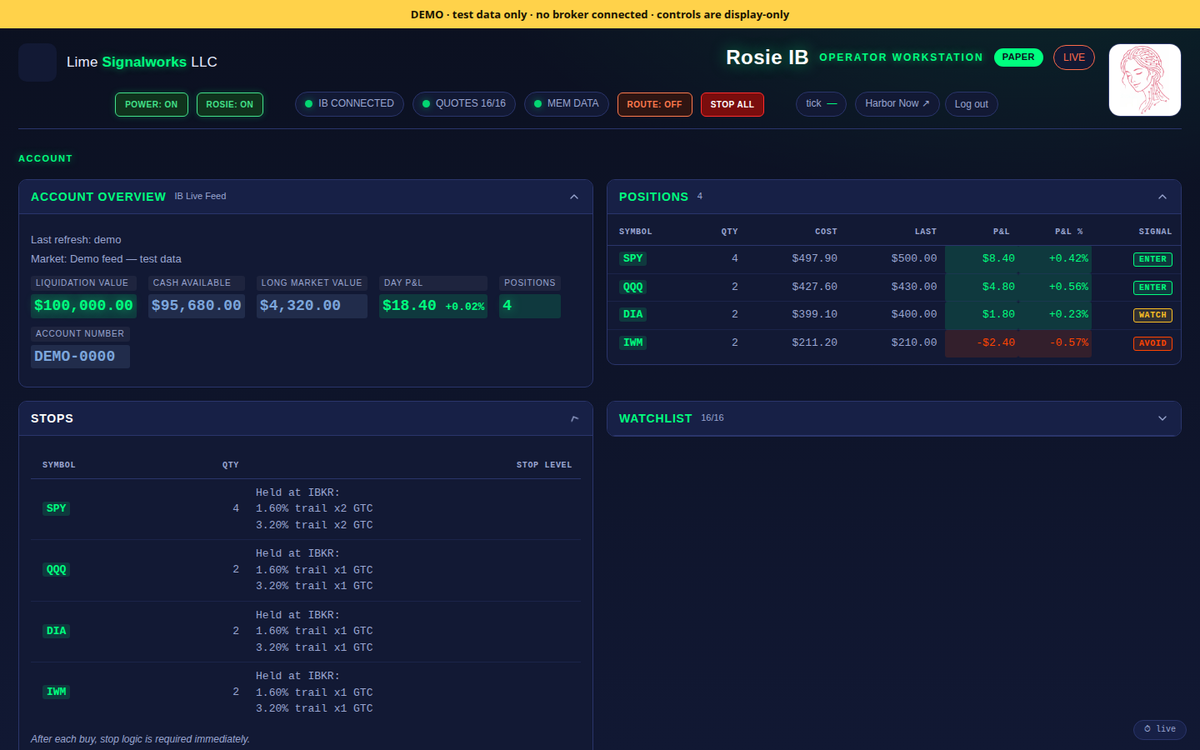
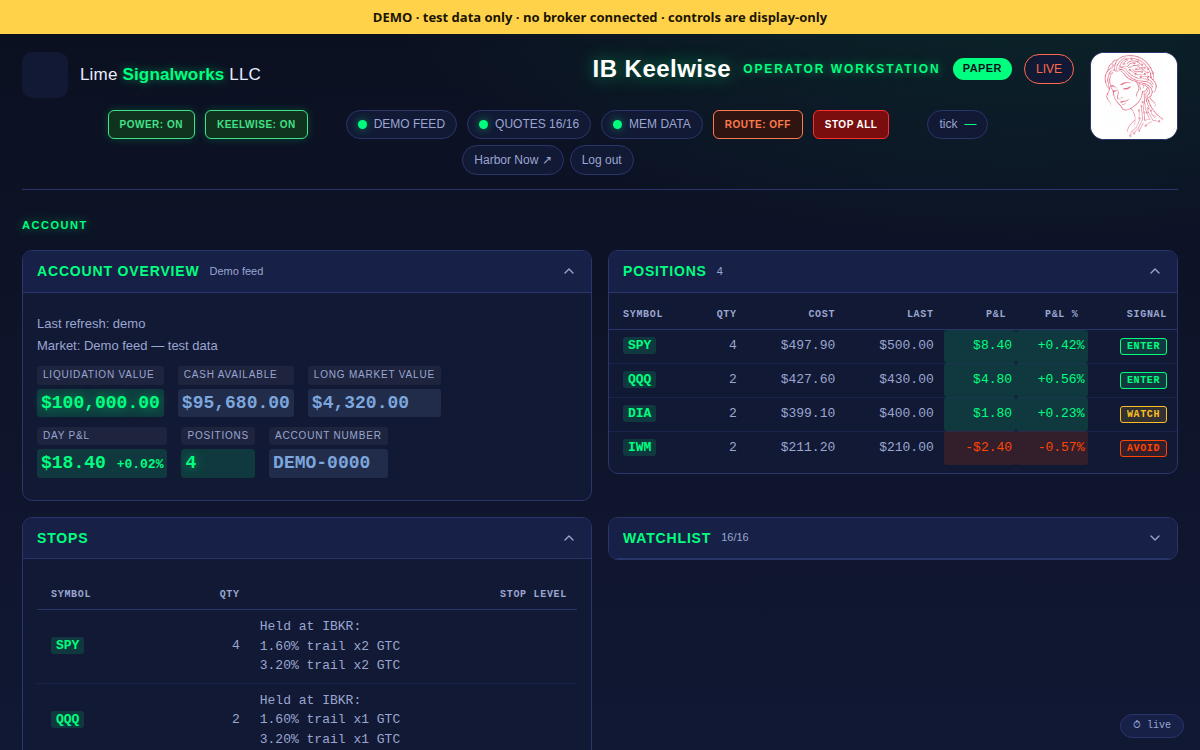
Oct 7 fixes: allow indexing, report wording, Price header, IB Keelwise in demo and preview, drop not-ready text, YouTube link (#9)

diff --git a/rosie-demo/index.html b/rosie-demo/index.html
@@ -3,7 +3,7 @@
 <head>
   <meta charset="UTF-8"/>
   <meta name="viewport" content="width=device-width,initial-scale=1.0"/>
-  <meta name="robots" content="noindex"><title>Demo — Rosie IB — Operator Workstation</title>
+  <meta name="robots" content="noindex"><title>Demo — IB Keelwise — Operator Workstation</title>
   <link rel="preconnect" href="https://fonts.googleapis.com"/>
   <link rel="preconnect" href="https://fonts.gstatic.com" crossorigin/>
   <link href="https://api.fontshare.com/v2/css?f[]=general-sans@400,500,600,700&display=swap" rel="stylesheet"/>
@@ -452,14 +452,14 @@ tr:hover td { background: rgba(0,255,127,0.06); }
            aria-label="Lime Signalworks home (opens in a new tab)">Lime&nbsp;<b>Signalworks</b> LLC</a>
       </div>
       <div class="brand">
-        <h1>Rosie IB</h1>
+        <h1>IB Keelwise</h1>
         <span class="sub">Operator Workstation</span>
-        <span class="trading-env-badge" style="display:inline-block;padding:3px 10px;border-radius:999px;font-size:11px;background:var(--lime, #9ad14a);color:#0a1320;font-weight:700;letter-spacing:.04em;" title="IB port 7497">PAPER</span> <form class="chip-form" method="post" action="/select-lane" style="display:inline" onsubmit="var v=prompt('Restart Rosie on the LIVE account? Real money. TWS must already be logged in to live. Type LIVE to continue.'); if(v!=='LIVE'){return false;} this.confirm.value=v; return true;"><input type="hidden" name="lane" value="LIVE"><input type="hidden" name="confirm" value=""><button type="submit" class="status-chip link" id="lane-btn" style="color:#ff6b4a;border-color:#ff6b4a;" title="Restart Rosie on the live account (asks you to type LIVE)">LIVE</button></form>
-        <img class="keeper-portrait-slot" id="rosie-portrait" src="static/rosie_portrait.png" alt="Rosie" title="Rosie" width="40" height="40">
+        <span class="trading-env-badge" style="display:inline-block;padding:3px 10px;border-radius:999px;font-size:11px;background:var(--lime, #9ad14a);color:#0a1320;font-weight:700;letter-spacing:.04em;" title="IB port 7497">PAPER</span> <form class="chip-form" method="post" action="/select-lane" style="display:inline" onsubmit="var v=prompt('Restart Keelwise on the LIVE account? Real money. TWS must already be logged in to live. Type LIVE to continue.'); if(v!=='LIVE'){return false;} this.confirm.value=v; return true;"><input type="hidden" name="lane" value="LIVE"><input type="hidden" name="confirm" value=""><button type="submit" class="status-chip link" id="lane-btn" style="color:#ff6b4a;border-color:#ff6b4a;" title="Restart Keelwise on the live account (asks you to type LIVE)">LIVE</button></form>
+        <img class="keeper-portrait-slot" id="rosie-portrait" src="static/rosie_portrait.png" alt="Keelwise" title="Keelwise" width="40" height="40">
       </div>
       <div class="op-cluster"><div class="op-grid">
         <form class="op-form" method="post" action="/power-off"><button type="submit" class="op-btn state-on">POWER: ON</button></form>
-        <form class="op-form" method="post" action="/rosie-off"><button type="submit" class="op-btn state-on">ROSIE: ON</button></form>
+        <form class="op-form" method="post" action="/rosie-off"><button type="submit" class="op-btn state-on">KEELWISE: ON</button></form>
         <span class="op-spacer"></span>
         <span class="status-chip" title="Socket open to ?:7497"><span class="dot live"></span>DEMO FEED</span>
         <span class="status-chip" title="16 of 16 watchlist symbols returning real prices"><span class="dot live"></span>QUOTES 16/16</span>
@@ -539,16 +539,16 @@ tr:hover td { background: rgba(0,255,127,0.06); }
       font-family:var(--mono);"/>
   </label>
   <button type="submit" class="big-btn arm-btn" style="margin-top:4px;">PROPOSE</button>
-</form><p class="note-body" style="margin-top:10px;color:var(--muted);font-style:italic;font-size:12px;">Rosie proposes — Noal decides. Review before arming.</p></div></div></details>
+</form><p class="note-body" style="margin-top:10px;color:var(--muted);font-style:italic;font-size:12px;">Keelwise proposes — you decide. Review before arming.</p></div></div></details>
       <details class="panel" id="panel-propose" open><summary class="panel-head"><span class="panel-head-main"><h2>Propose</h2></span><svg class="chev" width="16" height="16" viewBox="0 0 24 24" fill="none" stroke="currentColor" stroke-width="2" stroke-linecap="round" stroke-linejoin="round"><polyline points="6 9 12 15 18 9"/></svg></summary><div class="panel-body"><div class="panel-inner"><p class="note-body" style="color:var(--muted);">No active proposal. Run classify and rank first.</p></div></div></details>
 
       <div class="group-label">System</div>
       <details class="panel" id="panel-trade-record" open><summary class="panel-head"><span class="panel-head-main"><h2>Trade Record</h2></span><svg class="chev" width="16" height="16" viewBox="0 0 24 24" fill="none" stroke="currentColor" stroke-width="2" stroke-linecap="round" stroke-linejoin="round"><polyline points="6 9 12 15 18 9"/></svg></summary><div class="panel-body"><div class="panel-inner"><div style="display:flex;flex-wrap:wrap;gap:20px;padding:12px 0;border-bottom:1px solid var(--border);margin-bottom:14px;align-items:center;"><div style="display:flex;flex-direction:column;gap:2px;min-width:96px;"><span style="font-size:10px;color:var(--muted);text-transform:uppercase;letter-spacing:.04em;">Signals logged</span><span style="font-family:var(--mono);font-size:15px;">0</span></div><div style="display:flex;flex-direction:column;gap:2px;min-width:96px;"><span style="font-size:10px;color:var(--muted);text-transform:uppercase;letter-spacing:.04em;">Closed trades</span><span style="font-family:var(--mono);font-size:15px;">0</span></div><div style="display:flex;flex-direction:column;gap:2px;min-width:96px;"><span style="font-size:10px;color:var(--muted);text-transform:uppercase;letter-spacing:.04em;">Win rate</span><span style="font-family:var(--mono);font-size:15px;">---</span></div><div style="display:flex;flex-direction:column;gap:2px;min-width:96px;"><span style="font-size:10px;color:var(--muted);text-transform:uppercase;letter-spacing:.04em;">Profit factor</span><span style="font-family:var(--mono);font-size:15px;">---</span></div><div style="display:flex;flex-direction:column;gap:2px;min-width:96px;"><span style="font-size:10px;color:var(--muted);text-transform:uppercase;letter-spacing:.04em;">Max drawdown</span><span style="font-family:var(--mono);font-size:15px;">---</span></div><div style="display:flex;flex-direction:column;gap:2px;min-width:96px;"><span style="font-size:10px;color:var(--muted);text-transform:uppercase;letter-spacing:.04em;">Rule compliance</span><span style="font-family:var(--mono);font-size:15px;">---</span></div><span style="font-size:11px;font-weight:700;padding:4px 10px;border-radius:10px;border:1px solid var(--bad);color:var(--bad);text-transform:uppercase;letter-spacing:.04em;white-space:nowrap;margin-left:auto;">Gate: HOLD</span></div><p class="note-body" style="margin:0 0 14px;color:var(--muted);font-style:italic;font-size:12px;">Every signal the rolling-average-crossover loop finds is logged here automatically -- no clicking required. Use the form below only to log something by hand.</p><div style="margin-bottom:16px;"><form method="post" action="/evidence-log" style="display:flex;flex-wrap:wrap;gap:10px;align-items:flex-end;"><label style="font-size:11px;color:var(--muted);">Instrument<select name="instrument" style="display:block;margin-top:4px;padding:8px;background:var(--surface2);border:1px solid var(--border);border-radius:6px;color:var(--text);font-family:var(--mono);"><option value="SPY">SPY</option><option value="QQQ">QQQ</option><option value="DIA">DIA</option><option value="IWM">IWM</option></select></label><label style="font-size:11px;color:var(--muted);">Signal<select name="signal_class" style="display:block;margin-top:4px;padding:8px;background:var(--surface2);border:1px solid var(--border);border-radius:6px;color:var(--text);font-family:var(--mono);"><option value="Enter">Enter</option><option value="Watch">Watch</option><option value="Avoid">Avoid</option></select></label><label style="font-size:11px;color:var(--muted);">Entry<input type="number" step="0.01" name="entry_price" style="display:block;width:90px;margin-top:4px;padding:8px;background:var(--surface2);border:1px solid var(--border);border-radius:6px;color:var(--text);font-family:var(--mono);"/></label><label style="font-size:11px;color:var(--muted);flex:1;min-width:160px;">Notes<input type="text" name="operator_notes" style="display:block;width:100%;margin-top:4px;padding:8px;background:var(--surface2);border:1px solid var(--border);border-radius:6px;color:var(--text);font-family:var(--mono);"/></label><button type="submit" class="big-btn arm-btn">LOG SIGNAL</button></form></div><div style="display:flex;flex-direction:column;gap:8px;"><p class="note-body" style="color:var(--muted);">No evidence logged yet -- it appears here the moment the loop finds its first signal.</p></div></div></div></details>
-      <details class="panel" id="panel-journal" open><summary class="panel-head"><span class="panel-head-main"><h2>Journal</h2></span><svg class="chev" width="16" height="16" viewBox="0 0 24 24" fill="none" stroke="currentColor" stroke-width="2" stroke-linecap="round" stroke-linejoin="round"><polyline points="6 9 12 15 18 9"/></svg></summary><div class="panel-body"><div class="panel-inner"><div style="display:flex;flex-direction:column;gap:8px;"><div class="tl-item" style="align-items:center;"><span class="tl-time">demo 09:58:12</span><span class="sym">TLT</span><span class="muted-val">PROPOSE BUY 1</span><span class="bad-val">REFUSED</span><span class="tl-msg">Refused: quote stale — entries need a fresh ask</span></div><div class="tl-item" style="align-items:center;"><span class="tl-time">demo 10:08:05</span><span class="sym">QQQ</span><span class="muted-val">BUY 2 (protected)</span><span class="bad-val">FILLED</span><span class="tl-msg">Operator approved; two broker-held trails placed</span></div><div class="tl-item" style="align-items:center;"><span class="tl-time">demo 10:09:38</span><span class="sym">DIA</span><span class="muted-val">BUY 2 (protected)</span><span class="bad-val">FILLED</span><span class="tl-msg">Operator approved; two broker-held trails placed</span></div><div class="tl-item" style="align-items:center;"><span class="tl-time">demo 10:10:47</span><span class="sym">IWM</span><span class="muted-val">BUY 2 (protected)</span><span class="bad-val">FILLED</span><span class="tl-msg">Operator approved Rosie proposal; two broker-held trails placed</span></div></div></div></div></details>
+      <details class="panel" id="panel-journal" open><summary class="panel-head"><span class="panel-head-main"><h2>Journal</h2></span><svg class="chev" width="16" height="16" viewBox="0 0 24 24" fill="none" stroke="currentColor" stroke-width="2" stroke-linecap="round" stroke-linejoin="round"><polyline points="6 9 12 15 18 9"/></svg></summary><div class="panel-body"><div class="panel-inner"><div style="display:flex;flex-direction:column;gap:8px;"><div class="tl-item" style="align-items:center;"><span class="tl-time">demo 09:58:12</span><span class="sym">TLT</span><span class="muted-val">PROPOSE BUY 1</span><span class="bad-val">REFUSED</span><span class="tl-msg">Refused: quote stale — entries need a fresh ask</span></div><div class="tl-item" style="align-items:center;"><span class="tl-time">demo 10:08:05</span><span class="sym">QQQ</span><span class="muted-val">BUY 2 (protected)</span><span class="bad-val">FILLED</span><span class="tl-msg">Operator approved; two broker-held trails placed</span></div><div class="tl-item" style="align-items:center;"><span class="tl-time">demo 10:09:38</span><span class="sym">DIA</span><span class="muted-val">BUY 2 (protected)</span><span class="bad-val">FILLED</span><span class="tl-msg">Operator approved; two broker-held trails placed</span></div><div class="tl-item" style="align-items:center;"><span class="tl-time">demo 10:10:47</span><span class="sym">IWM</span><span class="muted-val">BUY 2 (protected)</span><span class="bad-val">FILLED</span><span class="tl-msg">Operator approved Keelwise proposal; two broker-held trails placed</span></div></div></div></div></details>
       <details class="panel" id="panel-operator" open><summary class="panel-head"><span class="panel-head-main"><h2>Operator</h2></span><svg class="chev" width="16" height="16" viewBox="0 0 24 24" fill="none" stroke="currentColor" stroke-width="2" stroke-linecap="round" stroke-linejoin="round"><polyline points="6 9 12 15 18 9"/></svg></summary><div class="panel-body"><div class="panel-inner">
       <div class="note-box">
         <div class="note-title">Operator Posture</div>
-        <div class="note-body">Only SPY · QQQ · DIA · IWM are gated. Confirm Power → Rosie → Arm before routing.</div>
+        <div class="note-body">Confirm Power → Keelwise → Arm before routing.</div>
       </div>
       <div class="note-box">
         <div class="note-title">Alert Mode</div>
@@ -579,7 +579,7 @@ tr:hover td { background: rgba(0,255,127,0.06); }
         </div>
       </div>
     </div></div></details>
-      <details class="panel" id="panel-diagnostics" open><summary class="panel-head"><span class="panel-head-main"><h2>Diagnostics</h2></span><svg class="chev" width="16" height="16" viewBox="0 0 24 24" fill="none" stroke="currentColor" stroke-width="2" stroke-linecap="round" stroke-linejoin="round"><polyline points="6 9 12 15 18 9"/></svg></summary><div class="panel-body"><div class="panel-inner"><div class="diag-row"><div class="diag-chip"><span class="diag-k">ROUTE</span><span class="diag-v bad">DISARM</span></div><div class="diag-chip"><span class="diag-k">POWER</span><span class="diag-v good">ON</span></div><div class="diag-chip"><span class="diag-k">ROSIE</span><span class="diag-v good">ON</span></div><div class="diag-chip"><span class="diag-k">HB</span><span class="diag-v plain">—</span></div><div class="diag-chip"><span class="diag-k">CYCLE</span><span class="diag-v plain">—</span></div><div class="diag-chip"><span class="diag-k">DEMO</span><span class="diag-v good">OK</span></div><div class="diag-chip" style="flex:1;min-width:200px;"><span class="diag-k">NOTE</span><span class="diag-v plain" style="font-size:11px;">—</span></div></div></div></div></details>
+      <details class="panel" id="panel-diagnostics" open><summary class="panel-head"><span class="panel-head-main"><h2>Diagnostics</h2></span><svg class="chev" width="16" height="16" viewBox="0 0 24 24" fill="none" stroke="currentColor" stroke-width="2" stroke-linecap="round" stroke-linejoin="round"><polyline points="6 9 12 15 18 9"/></svg></summary><div class="panel-body"><div class="panel-inner"><div class="diag-row"><div class="diag-chip"><span class="diag-k">ROUTE</span><span class="diag-v bad">DISARM</span></div><div class="diag-chip"><span class="diag-k">POWER</span><span class="diag-v good">ON</span></div><div class="diag-chip"><span class="diag-k">KEELWISE</span><span class="diag-v good">ON</span></div><div class="diag-chip"><span class="diag-k">HB</span><span class="diag-v plain">—</span></div><div class="diag-chip"><span class="diag-k">CYCLE</span><span class="diag-v plain">—</span></div><div class="diag-chip"><span class="diag-k">DEMO</span><span class="diag-v good">OK</span></div><div class="diag-chip" style="flex:1;min-width:200px;"><span class="diag-k">NOTE</span><span class="diag-v plain" style="font-size:11px;">—</span></div></div></div></div></details>
     </div>
   </main>
 </div>
@@ -891,7 +891,7 @@ document.addEventListener('click', function(e){
   if (e.target.closest('button, a')) { e.preventDefault(); demoNote(); }
 }, true);
 function demoNote(){ var b=document.getElementById('demo-banner'); if(!b) return;
-  b.textContent='DEMO · controls are display-only here · in Rosie, every action needs your login and approval';
+  b.textContent='DEMO · controls are display-only here · in Keelwise, every action needs your login and approval';
   b.style.background='#00ff7f'; setTimeout(function(){ b.textContent='DEMO · test data only · no broker connected · controls are display-only'; b.style.background='#ffd24a'; }, 2600); }
 </script></body>
 </html>

diff --git a/index.html b/index.html
@@ -10,7 +10,7 @@
       name="description"
       content="Keelwise is a loss-prevention-first trading assistant from Lime Signalworks. It connects to Interactive Brokers, proposes trades for your approval, and protects every approved buy with stops held at the broker."
     />
-    <meta name="robots" content="noindex, nofollow" />
+    <meta name="robots" content="index, follow" />
     <!-- Declares light as the default rendering scheme so a dark operating system does
          not paint the canvas or form controls dark before the stylesheet applies. The
          dark palette is reached only through the toggle, via the color-scheme property. -->
@@ -97,7 +97,7 @@
                  reachable, so a visitor learns that before spending a click on it. -->
             <div class="cta-block" id="demo">
               <a class="cta" href="https://limesignalworks.pplx.app/" target="_blank" rel="noopener noreferrer">Open the Keelwise demo<span class="ext" aria-hidden="true">&#8599;</span><span class="sr-only"> (opens in a new tab)</span></a>
-              <p class="cta-block__disclosure" data-demo-disclosure>Demonstration environment. Simulated data. No broker connection and no real orders. Not production-ready.</p>
+              <p class="cta-block__disclosure" data-demo-disclosure>Demonstration environment. Simulated data. No broker connection and no real orders.</p>
               <p class="cta-block__signin" data-demo-signin>Perplexity sign-in may be required.</p>
             </div>
 
@@ -178,9 +178,9 @@
                 width="1200"
                 height="750"
                 loading="lazy"
-                alt="Keelwise operator workstation, demo with test data: header controls, Account Overview, Positions with the Signal column, and broker-held Stops"
+                alt="IB Keelwise operator workstation, demo with test data: header controls, Account Overview, Positions with the Signal column, and broker-held Stops"
               />
-              <figcaption>The Keelwise dashboard, shown here with test data. <a href="/rosie-demo/">Open the interactive demo</a>.</figcaption>
+              <figcaption>The IB Keelwise dashboard, shown here with test data. <a href="/rosie-demo/">Open the interactive demo</a>.</figcaption>
             </figure>
           </div>
         </div>
@@ -193,9 +193,10 @@
             <p class="label rule-after">Section 02</p>
             <h2 id="market-report-title">Daily market situation report</h2>
             <p>
-              Each market day we publish a plain-language summary of conditions: index-level moves,
-              volatility, and a stated risk posture. Reports are published after the close and are
-              labelled with their as-of date.
+              Our market situation report is a plain-language summary of conditions: index-level
+              moves, volatility, and a stated risk posture. It is written after the close, dated, and
+              published on our Signals site; Keelwise reads the stated posture before proposing any
+              new buy. The table below shows the report format.
             </p>
           </div>
 
@@ -256,7 +257,7 @@
             </table>
           </div>
             <p class="panel__posture">Conditions read bearish. Stated posture: protect first.</p>
-            <p class="panel__note">This is a worked example of the report format, not current market data. The figures shown are the last completed report carried over from the reporting archive and are dated. Reports are published after the close, never in real time, and live market data may be newer than any published report.</p>
+            <p class="panel__note">This table shows the report format using figures from a past report; it is not current market data. Reports are written after the close and dated, never in real time.</p>
           </div>
         </div>
       </section>
@@ -468,7 +469,7 @@
               <thead>
                 <tr>
                   <th scope="col">Term</th>
-                  <th scope="col" class="num">Planned price</th>
+                  <th scope="col" class="num">Price</th>
                 </tr>
               </thead>
               <tbody>
@@ -483,7 +484,7 @@
               </tbody>
             </table>
           </div>
-              <p class="panel__note" data-pricing-status>Enrollment is arranged directly with us after your evaluation. There is no online checkout, and no payment can be taken on this site.</p>
+              <p class="panel__note" data-pricing-status>Enrollment is arranged directly with us, by phone or email, after your evaluation. Nothing is sold or charged on this site.</p>
             </div>
 
             <div class="stack">
@@ -571,14 +572,15 @@
               <p class="label">Just looking</p>
               <h3>Open the demo</h3>
               <p>
-                See the real dashboard with test data before you talk to anyone. A Perplexity
-                sign-in may be required to open it.
+                See the real dashboard with test data, or watch our short videos on YouTube. A
+                Perplexity sign-in may be required to open the demo.
               </p>
             </li>
           </ol>
           <p class="anchor-row">
             <a class="anchor-link" href="#contact">Call or email us</a>
             <a class="anchor-link" href="#demo">Open the demo</a>
+            <a class="anchor-link" href="https://www.youtube.com/@noelrini3882" target="_blank" rel="noopener noreferrer">Watch on YouTube<span class="sr-only"> (opens in a new tab)</span></a>
           </p>
         </div>
       </section>

diff --git a/src/template.html b/src/template.html
@@ -10,7 +10,7 @@
       name="description"
       content="Keelwise is a loss-prevention-first trading assistant from Lime Signalworks. It connects to Interactive Brokers, proposes trades for your approval, and protects every approved buy with stops held at the broker."
     />
-    <meta name="robots" content="noindex, nofollow" />
+    <meta name="robots" content="index, follow" />
     <!-- Declares light as the default rendering scheme so a dark operating system does
          not paint the canvas or form controls dark before the stylesheet applies. The
          dark palette is reached only through the toggle, via the color-scheme property. -->
@@ -172,9 +172,9 @@
                 width="1200"
                 height="750"
                 loading="lazy"
-                alt="Keelwise operator workstation, demo with test data: header controls, Account Overview, Positions with the Signal column, and broker-held Stops"
+                alt="IB Keelwise operator workstation, demo with test data: header controls, Account Overview, Positions with the Signal column, and broker-held Stops"
               />
-              <figcaption>The Keelwise dashboard, shown here with test data. <a href="/rosie-demo/">Open the interactive demo</a>.</figcaption>
+              <figcaption>The IB Keelwise dashboard, shown here with test data. <a href="/rosie-demo/">Open the interactive demo</a>.</figcaption>
             </figure>
           </div>
         </div>
@@ -187,9 +187,10 @@
             <p class="label rule-after">Section 02</p>
             <h2 id="market-report-title">Daily market situation report</h2>
             <p>
-              Each market day we publish a plain-language summary of conditions: index-level moves,
-              volatility, and a stated risk posture. Reports are published after the close and are
-              labelled with their as-of date.
+              Our market situation report is a plain-language summary of conditions: index-level
+              moves, volatility, and a stated risk posture. It is written after the close, dated, and
+              published on our Signals site; Keelwise reads the stated posture before proposing any
+              new buy. The table below shows the report format.
             </p>
           </div>
 
@@ -456,14 +457,15 @@
               <p class="label">Just looking</p>
               <h3>Open the demo</h3>
               <p>
-                See the real dashboard with test data before you talk to anyone. A Perplexity
-                sign-in may be required to open it.
+                See the real dashboard with test data, or watch our short videos on YouTube. A
+                Perplexity sign-in may be required to open the demo.
               </p>
             </li>
           </ol>
           <p class="anchor-row">
             <a class="anchor-link" href="#contact">Call or email us</a>
             <a class="anchor-link" href="#demo">Open the demo</a>
+            <a class="anchor-link" href="https://www.youtube.com/@noelrini3882" target="_blank" rel="noopener noreferrer">Watch on YouTube<span class="sr-only"> (opens in a new tab)</span></a>
           </p>
         </div>
       </section>
